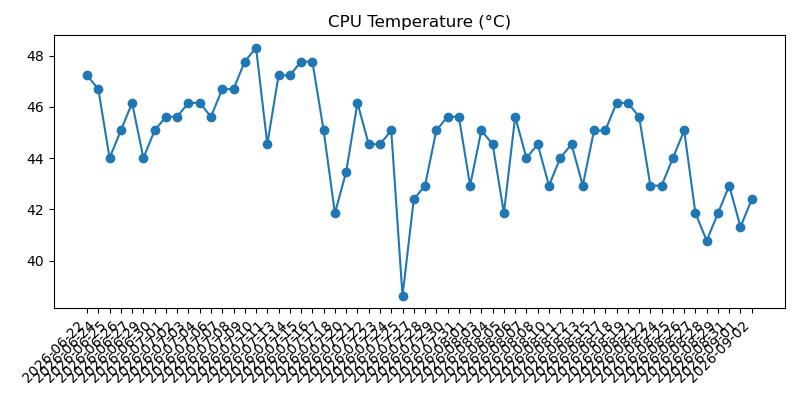
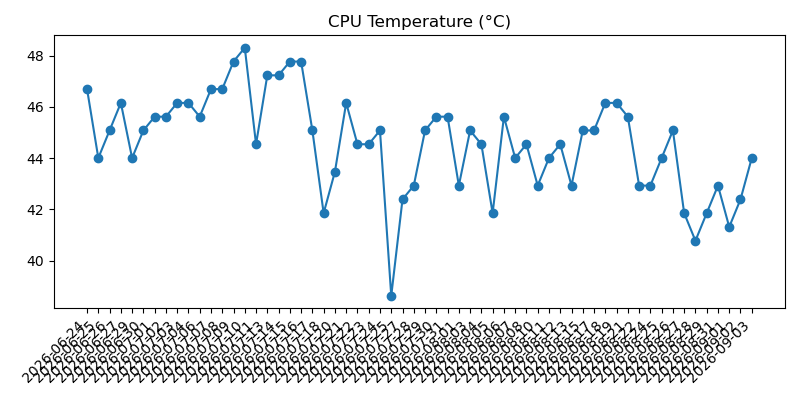
Add daily health and weather snapshot

Changed region(s): [[0.0938, 0.09, 0.9688, 0.75], [0.0938, 0.81, 0.9375, 0.87], [0.9375, 0.39, 0.9688, 0.42]]

diff --git a/2026-09.md b/2026-09.md
@@ -68,3 +68,37 @@
 - Overall: Good
 - Warning: None
 
+## 2026-09-03 16:23:53
+
+### Machine
+- Uptime: up 2 days, 1 hour, 32 minutes
+- CPU load (1m, 5m, 15m): 0.00, 0.00, 0.00
+- RAM used: 261 MB / 920 MB (28.4%)
+- Disk used (/): 4.1 GB / 28.8 GB (14.1%)
+- Free disk space (/): 23.5 GB
+- CPU temp: 44.0°C
+- Voltage / throttling: OK
+
+### Reachability
+- Internet check (1.1.1.1): Reachable (4.3 ms)
+
+### Weather
+- Madrid:
+  - Condition: Despejado
+  - Max temp: 37°C
+  - Min temp: 21°C
+  - Feels like: 29°C
+  - Chance of rain: 0%
+  - Warnings: None reported
+- Barcelona:
+  - Condition: Despejado
+  - Max temp: 32°C
+  - Min temp: 25°C
+  - Feels like: 28°C
+  - Chance of rain: 0%
+  - Warnings: None reported
+
+### Health
+- Overall: Good
+- Warning: None
+
